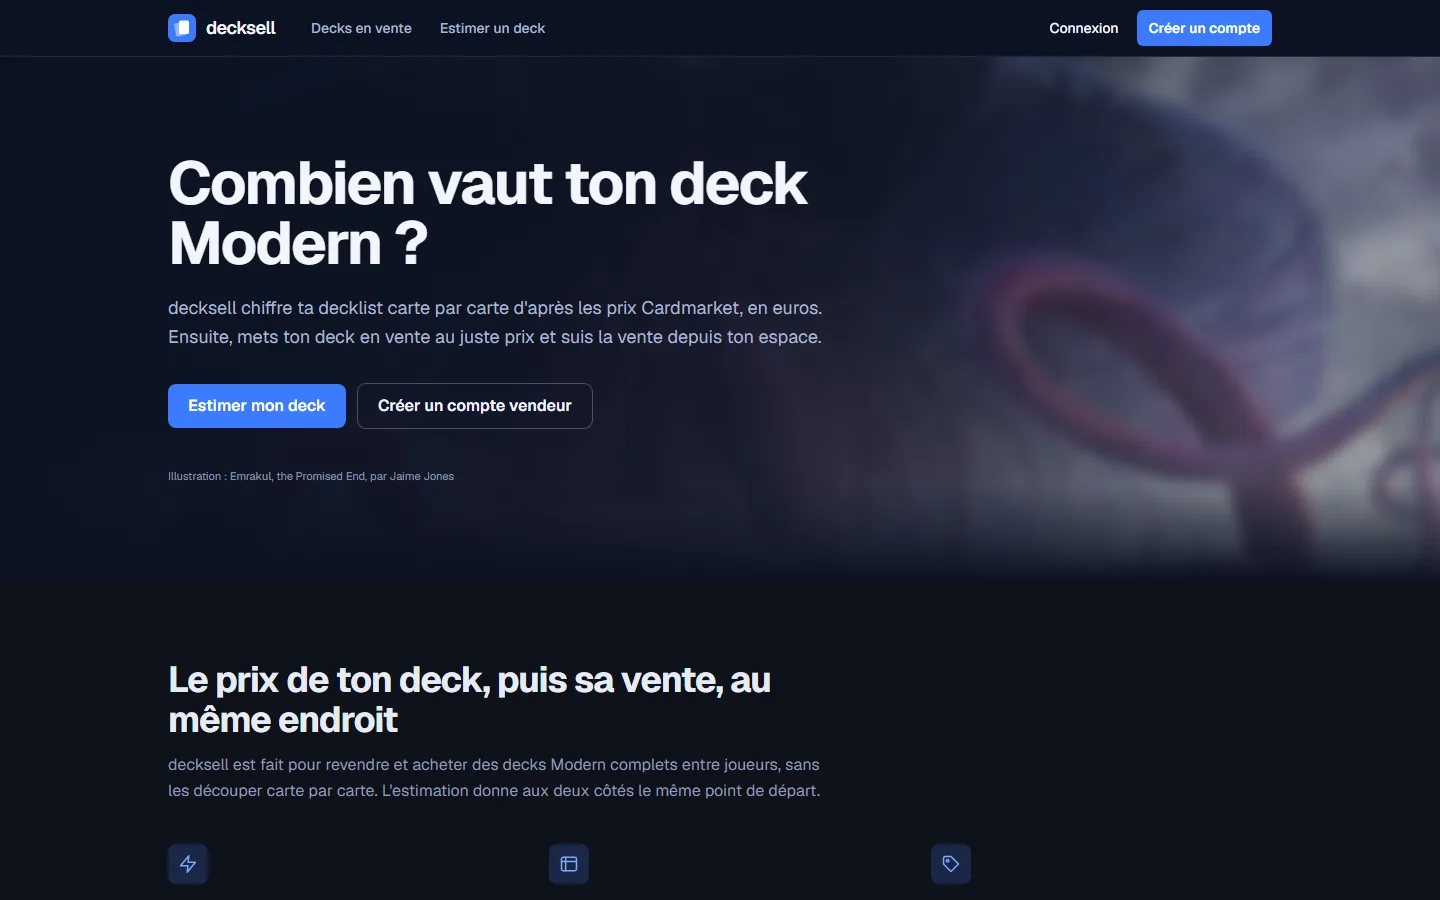
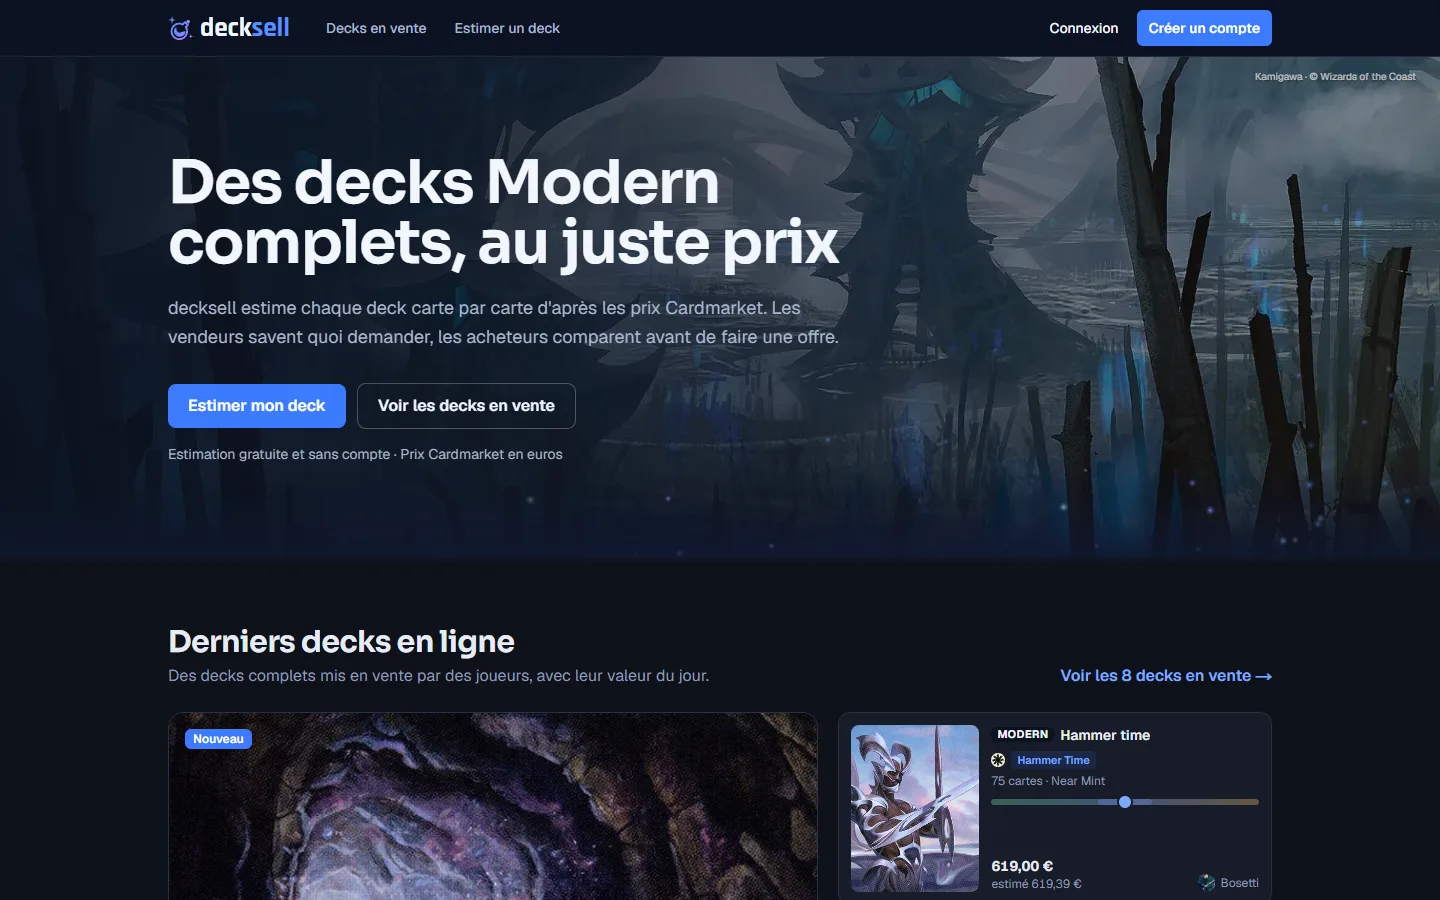
Met à jour le README et ses captures d'écran
Fonctionnalités actuelles (messagerie, offres, favoris, modération, score méta), imports
quotidiens, mise en route complète et feuille de route à jour.

diff --git a/README.md b/README.md
@@ -4,8 +4,8 @@
 
 **Estime, vends et achète des decks Magic: The Gathering Modern complets, au juste prix.**
 
-Colle ta decklist, decksell la chiffre carte par carte d'après les prix Cardmarket en euros,
-puis t'aide à la mettre en vente et à suivre la vente.
+Colle ta decklist : decksell la chiffre carte par carte d'après les prix Cardmarket en euros, la compare aux listes
+qui gagnent en tournoi, puis t'aide à la vendre ou à trouver le deck qu'il te faut.
 
 ![Next.js](https://img.shields.io/badge/Next.js-16-000000?logo=nextdotjs)
 ![React](https://img.shields.io/badge/React-19-149eca?logo=react&logoColor=white)
@@ -22,34 +22,62 @@ puis t'aide à la mettre en vente et à suivre la vente.
 
 Les outils existants savent construire et estimer des decks (Moxfield, MTGGoldfish) ou vendre des cartes à l'unité
 (Cardmarket). decksell part de **la decklist entière** et va jusqu'à **la vente du deck complet entre joueurs**, sans
-le découper carte par carte. L'estimation donne au vendeur et à l'acheteur le même point de départ.
+le découper carte par carte. L'estimation et la comparaison au méta donnent au vendeur et à l'acheteur le même point
+de départ.
 
 ## Fonctionnalités
 
 ### Estimation d'un deck
 
-- **Coller sa liste telle quelle** : formats MTGO, Arena, Moxfield et MTGGoldfish, avec la réserve à la suite.
-- **Valeur carte par carte** en euros, triée par prix, avec rareté, édition, illustrateur et aperçu de la carte.
-- **Carte phare** mise en avant et part des 5 cartes les plus chères dans le total.
+- **Coller sa liste telle quelle** (MTGO, Arena, Moxfield, MTGGoldfish, réserve et compagnon compris) ou **importer
+  un deck Archidekt** par son lien.
+- **Valeur carte par carte** en euros, avec rareté, édition, illustrateur et aperçu de la carte.
+- **Carte phare** révélée en dernier, total qui défile, part des 5 cartes les plus chères.
 - **Rien n'est compté en silence** : une carte introuvable ou sans prix est signalée, laissée hors du total, et le
   vendeur peut indiquer son propre prix.
 
 ![Estimation d'un deck](docs/screenshots/estimation.webp)
 
-### Place de marché
+### Trouver un deck
 
-- **Index des decks en vente** avec l'illustration de la carte phare, le prix demandé et l'écart avec la valeur estimée.
-- **Filtres** par couleurs (cumulables : un deck doit contenir toutes les couleurs choisies) et par archétype
-  (Burn, Reanimator, Amulet Titan…), partageables par leur adresse.
-- **Page de chaque deck** : la liste aux prix du jour, l'état des cartes, la part de cartes en français et en anglais,
-  le profil du vendeur.
+- **Index des decks en vente** : illustration de la carte phare, prix demandé, **jauge du juste prix** (bonne affaire,
+  juste prix, au-dessus de la valeur) et **badge de proximité méta**.
+- **Recherche par carte**, en anglais ou en français (« Foudre » trouve Lightning Bolt), avec suggestions.
+- **Filtres** par couleurs, archétype et fourchette de prix, **tri** par date, prix ou meilleure affaire, pagination.
+  Filtres repliables sur mobile, partageables par leur adresse.
+- **Favoris**, avec alerte par email quand un deck suivi baisse de prix.
+
+### Page d'un deck
+
+- **Liste aux prix du jour, groupée par type** (créatures, éphémères, terrains…) avec sous-totaux, façon Moxfield.
+- **Fenêtre « carte en grand »** au clic, navigation ← →, liens Scryfall et Cardmarket.
+- **Statistiques** : types de cartes (cliquables), courbe de mana, état et langue carte par carte.
+- **Proximité méta** : score de 0 à 100 face aux listes de tournoi récentes, liste la plus proche, cœur commun et
+  différences (voir plus bas).
+- **Vendeur** : ancienneté, nombre de decks en vente, lieu d'expédition, profils Moxfield et Archidekt.
+- **Contacter le vendeur**, copier le lien, télécharger la liste en `.txt`, signaler l'annonce.
+
+### Messagerie et offres
+
+- **Une conversation par annonce et par acheteur**, avec notification par email (une seule tant qu'elle n'est pas lue).
+- **Offres de prix** : l'acheteur propose, le vendeur accepte ou refuse ; le vendeur réserve l'annonce depuis la
+  conversation.
+- **Blocage et signalement** d'un membre, quotas anti-spam, insultes repérées automatiquement.
 
 ### Espace vendeur
 
-- **Mise en vente depuis l'estimation**, en un clic : prix, état, couleurs, archétype, langue, description.
-- **Suivi des annonces** : en vente, réservé, vendu (avec la date et le prix de vente), retiré.
-- **Vue détaillée de chaque deck** et rappel de ce qu'il reste à compléter.
-- **Profil** : pseudo, photo, liens Moxfield et Archidekt.
+- **Mise en vente depuis l'estimation**, contrôlée : 60 cartes minimum, 15 en réserve au plus, aucune carte interdite
+  en Modern.
+- **Mes annonces** : statut en un clic (en vente, réservé, vendu, retiré), bouton « Ajouter un deck ».
+- **Page de chaque annonce** : un seul formulaire (nom, format, prix, statut, couleurs, archétype), état et langue
+  carte par carte, modification de la liste.
+- **Profil** : pseudo, photo, lieu d'expédition, préférences d'emails et d'alertes.
+
+### Modération
+
+- **Signalements** de conversations et d'annonces, plus les messages repérés automatiquement.
+- **Décisions** : classement, retrait de l'annonce, avertissement par email, suspension de 3 jours à définitive (un
+  compte suspendu ne peut plus écrire ni modifier ses annonces, qui disparaissent du site).
 
 ## Comment les prix sont calculés
 
@@ -61,20 +89,37 @@ le découper carte par carte. L'estimation donne au vendeur et à l'acheteur le 
 | Cartes sans prix | Signalées et exclues du total ; le vendeur peut saisir un prix |
 | Statut | Indicatif : c'est un repère, pas une offre de rachat |
 
+## Score de proximité méta
+
+Le score indique **à quel point une liste ressemble aux listes Modern qui ont fait des résultats récemment**. Il sert
+à classer, jamais à promettre un niveau de jeu.
+
+| | |
+|---|---|
+| Référence | Résultats officiels MTGO (Modern Challenges, Leagues 5-0) des 30 derniers jours, importés chaque jour |
+| Calcul | Similarité de Ruzicka pondérée sur les quantités ; les cartes rares dans le méta pèsent plus que les cartes jouées partout |
+| Pondération | Principal 0,8 / réserve 0,2 (réglable dans `src/lib/meta-config.ts`) |
+| Lecture | 75+ liste méta · 55–74 proche du méta · 35–54 variante · moins de 35 hors méta |
+| Robustesse | Pas de score sous 40 cartes ; cartes inconnues, lignes illisibles et réserve absente signalées |
+
+Méthode complète, justification des choix et calibration : [docs/score-meta.md](docs/score-meta.md).
+
 ## Stack technique
 
 - **[Next.js 16](https://nextjs.org)** (App Router, Server Actions, Cache Components, Proxy) et **React 19**
-- **[Supabase](https://supabase.com)** : Postgres (cartes, annonces, profils), Auth (email et mot de passe), Storage
-  (photos de profil)
-- **Tailwind CSS 4**, polices Geist et Sora
+- **[Supabase](https://supabase.com)** : Postgres (cartes, annonces, messagerie, méta), Auth (email et mot de passe),
+  Storage (photos de profil)
+- **Tailwind CSS 4**, polices Geist, Sora et Rajdhani
+- **[Resend](https://resend.com)** pour les emails (nouveau message, baisse de prix, modération)
 - **Vercel** pour l'hébergement, déployé à chaque push sur `main`
+- **GitHub Actions** pour les imports quotidiens (prix, méta)
 - Tests avec le lanceur intégré de Node (`node --test`)
 
 ## Démarrer en local
 
 ### Prérequis
 
-- Node.js 24 (recommandé) : les tests et les scripts importent directement des fichiers TypeScript
+- Node.js 24 : les tests et les scripts importent directement des fichiers TypeScript
 - Un projet [Supabase](https://supabase.com) (l'offre gratuite suffit)
 
 ### Installation
@@ -87,32 +132,44 @@ npm install
 
 ### Configuration
 
-1. Copie `.env.example` vers `.env.local` et renseigne les clés de ton projet Supabase :
+1. Copie `.env.example` vers `.env.local` et renseigne les clés :
 
    | Variable | Où la trouver | Usage |
    |---|---|---|
    | `NEXT_PUBLIC_SUPABASE_URL` | Supabase › Connect | Adresse du projet |
    | `NEXT_PUBLIC_SUPABASE_PUBLISHABLE_KEY` | Settings › API Keys | Clé publique (navigateur) |
-   | `SUPABASE_SECRET_KEY` | Settings › API Keys | Clé secrète, **serveur uniquement** |
-   | `RESEND_API_KEY` | resend.com › API Keys | Emails de nouveau message (facultatif) |
+   | `SUPABASE_SECRET_KEY` | Settings › API Keys | Clé secrète, **serveur et scripts uniquement** |
+   | `RESEND_API_KEY` | resend.com › API Keys | Emails du site (facultatif) |
    | `EMAIL_FROM` | Adresse d'un domaine vérifié chez Resend | Expéditeur, ex. `decksell <notifications@ton-domaine.fr>` |
 
 2. Dans Supabase › **SQL Editor**, exécute tout le fichier [`supabase/schema.sql`](supabase/schema.sql). Il est
-   réexécutable sans risque après chaque mise à jour.
+   réexécutable sans risque : relance-le après chaque mise à jour du dépôt.
 3. Dans Supabase › **Authentication › URL Configuration**, mets `http://localhost:3000` en Site URL et ajoute
    `http://localhost:3000/**` aux Redirect URLs.
-4. Importe les cartes et les prix depuis Scryfall (plusieurs minutes pour l'import complet) :
+4. Pour accéder à la modération, nomme-toi admin une fois (SQL Editor) :
+
+   ```sql
+   insert into public.admins (user_id)
+   select id from auth.users where email = 'ton-email@exemple.fr'
+   on conflict do nothing;
+   ```
+
+5. Importe les cartes et les prix (plusieurs minutes), puis les listes de tournoi :
 
    ```bash
    npm run import:scryfall
+   npm run import:meta
    ```
 
-### Import quotidien des prix
+### Imports quotidiens
 
-Le workflow [`.github/workflows/import-prix.yml`](.github/workflows/import-prix.yml) relance l'import chaque jour à
-10 h 23 UTC, après la mise à jour du fichier Scryfall. Pour l'activer sur ton dépôt, ajoute deux secrets dans
-GitHub › **Settings › Secrets and variables › Actions** : `NEXT_PUBLIC_SUPABASE_URL` et `SUPABASE_SECRET_KEY`.
-Tu peux aussi le lancer à la main depuis l'onglet **Actions** (bouton *Run workflow*).
+| Workflow | Heure (UTC) | Rôle |
+|---|---|---|
+| [`import-prix.yml`](.github/workflows/import-prix.yml) | 10 h 23 | Cartes et prix Scryfall |
+| [`import-meta.yml`](.github/workflows/import-meta.yml) | 11 h 47 | Listes de tournoi MTGO, puis recalcul du score méta de toutes les annonces |
+
+Pour les activer sur ton dépôt, ajoute deux secrets dans GitHub › **Settings › Secrets and variables › Actions** :
+`NEXT_PUBLIC_SUPABASE_URL` et `SUPABASE_SECRET_KEY`. Chacun se lance aussi à la main depuis l'onglet **Actions**.
 
 ### Lancer
 
@@ -128,10 +185,10 @@ Le site est alors disponible sur [http://localhost:3000](http://localhost:3000).
 |---|---|
 | `npm run dev` | Serveur de développement |
 | `npm run build` / `npm start` | Build et serveur de production |
-| `npm test` | Tests (lecteur de decklists, calcul des prix, saisies) |
+| `npm test` | Tests (decklists, prix, filtres de l'index, score méta, contrôle qualité…) |
 | `npm run lint` | Vérification ESLint |
-| `npm run import:scryfall` | Import des cartes et des prix Scryfall dans Supabase (`-- --limit 2000` pour un essai, `-- --force` pour réimporter le même fichier) |
-| `npm run import:meta` | Import des listes de tournoi Modern (résultats officiels MTGO) et recalcul du score de proximité méta des annonces (`-- --dry-run` pour simuler, `-- --only-rescore` pour recalculer seulement). Méthode : [docs/score-meta.md](docs/score-meta.md) |
+| `npm run import:scryfall` | Import des cartes et des prix Scryfall (`-- --limit 2000` pour un essai, `-- --force` pour réimporter le même fichier) |
+| `npm run import:meta` | Import des listes de tournoi MTGO et recalcul du score méta (`-- --dry-run` pour simuler, `-- --only-rescore` pour recalculer seulement, `-- --days 45` pour changer la fenêtre) |
 | `npm run check:supabase` | Test de connexion à Supabase |
 | `npm run estimate -- deck.txt` | Estimation d'une decklist en ligne de commande |
 
@@ -139,43 +196,53 @@ Le site est alors disponible sur [http://localhost:3000](http://localhost:3000).
 
 ```
 src/
-├── app/                 Pages et actions serveur
-│   ├── page.tsx         Accueil
-│   ├── estimer/         Estimation d'un deck
-│   ├── decks/           Index des decks en vente et page de chaque deck
-│   ├── espace/          Espace vendeur : annonces, vue détaillée, profil
-│   ├── connexion/       Connexion
-│   └── inscription/     Inscription
-├── components/          Composants d'interface (tableau de cartes, filtres, formulaires…)
-├── lib/                 Logique métier : lecture des decklists, calcul des prix, accès aux données
-└── proxy.ts             Rafraîchissement de la session Supabase
-supabase/schema.sql      Schéma complet de la base (tables, règles RLS, archétypes)
-.github/workflows/       Import quotidien des prix (GitHub Actions)
-scripts/                 Import Scryfall, estimation en ligne de commande, test de connexion
-tests/                   Tests unitaires
-PRODUCT.md / DESIGN.md   Fiche produit et système de design
+├── app/                   Pages, actions serveur et routes
+│   ├── page.tsx           Accueil
+│   ├── estimer/           Estimation d'un deck
+│   ├── decks/             Index des decks en vente et page de chaque deck
+│   ├── vendeurs/          Page publique de chaque vendeur
+│   ├── espace/            Espace membre : annonces, messages, favoris, profil, modération
+│   ├── api/cartes/        Suggestions de noms de cartes (anglais et français)
+│   └── …                  Connexion, inscription, mot de passe, pages légales, sitemap, images de partage
+├── components/            Composants d'interface (liste de cartes, filtres, jauge, encadrés, formulaires…)
+├── lib/                   Logique métier : decklists, prix, filtres, score méta, messagerie, modération, emails
+└── proxy.ts               Rafraîchissement de la session Supabase
+supabase/schema.sql        Schéma complet de la base (tables, règles RLS, fonctions, archétypes)
+scripts/                   Imports Scryfall et méta, estimation en ligne de commande, test de connexion
+.github/workflows/         Imports quotidiens (GitHub Actions)
+docs/                      Méthode du score méta, captures d'écran
+tests/                     Tests unitaires
+PRODUCT.md / DESIGN.md     Fiche produit et système de design
 ```
 
 ## Sécurité
 
-- **Règles RLS** sur toutes les tables : un membre ne lit et ne modifie que son profil, ses annonces et ses photos.
-- **La clé secrète Supabase ne quitte jamais le serveur** (modules `server-only`) ; la table des cartes n'est pas
-  lisible avec la clé publique.
+- **Règles RLS** sur toutes les tables : un membre ne lit et ne modifie que son profil, ses annonces, ses
+  conversations et ses photos.
+- **La clé secrète Supabase ne quitte jamais le serveur** (modules `server-only`) ; la table des cartes et les listes
+  de tournoi ne sont pas lisibles avec la clé publique.
+- **Messagerie, offres et modération** passent par des fonctions SQL qui revérifient tout côté base (participants,
+  quotas, blocages, droits d'admin, suspensions).
 - **Chaque action serveur revérifie** le membre connecté et valide toutes les saisies.
-- **L'index public** ne renvoie que les annonces en vente ou réservées, et seulement leurs colonnes publiques.
+- **L'index public** ne renvoie que les annonces en vente ou réservées de comptes non suspendus, et seulement leurs
+  colonnes publiques.
 
 ## Feuille de route
 
-- [ ] Prise de contact entre acheteur et vendeur
+- [x] Prise de contact entre acheteur et vendeur, offres de prix
 - [x] Import automatique et quotidien des prix
 - [x] Mot de passe oublié
-- [ ] Fourchette de prix de revente
-- [ ] Reconnaissance automatique de l'archétype d'une liste
+- [x] Modération (signalements, sanctions)
+- [x] Score de proximité méta et reconnaissance de l'archétype des listes de tournoi
+- [ ] Paiement en ligne (Stripe Connect), pour garder toute la vente sur decksell
+- [ ] Badges vendeur fondés sur les ventes réalisées
+- [ ] Formats au-delà du Modern
 
 ## Mentions
 
 Données de cartes, images et symboles de mana : [Scryfall](https://scryfall.com). Prix en euros issus de
-Cardmarket, indicatifs et datés.
+Cardmarket, indicatifs et datés. Listes de tournoi : résultats officiels publiés sur
+[mtgo.com](https://www.mtgo.com/decklists).
 
 decksell est un contenu de fans non officiel, non approuvé par Wizards of the Coast. Portions des éléments utilisés :
 propriété de Wizards of the Coast. ©Wizards of the Coast LLC.
